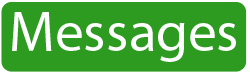
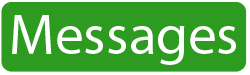
header done

Changed region(s): [[0.028, 0.16, 0.952, 0.88]]

diff --git a/app/assets/stylesheets/static_pages.css.scss b/app/assets/stylesheets/static_pages.css.scss
@@ -1,12 +1,66 @@
-/* Logged In Header */
+								/* Logged In Header */
 
 #logoutbutton {
+margin-left: 900px;
+position: relative;
+bottom: 20px;
+}
 
-	margin-left:300px;
+#search {
+	margin-left: 20px;
+	margin-top:9px;
+	float:left;
+}
+
+#searchfield {
+	float:left;
+}
+
+#searchbutton {
+    float:left;
+	left:5px;
+    top:6px;
+position: relative;
 }
 
 
+#meetumehead {
+font-size: 40px;
+margin-left:20px;
+color: #FFF;
+font-family: myriad pro;
+float:left;
+margin-top:6px;
+}
 
+#settings {
+	float:left;
+	left:20px;
+	top:12px;
+	position:relative;
+}
+
+#messages {
+	float:left;
+	left:24px;
+	top:12px;
+	position:relative;
+}
+
+#activity {
+float:left;
+left:28px;
+top:12px;
+position:relative;
+}
+
+#profile {
+left:32px;
+top:12px;
+position:relative;
+}
+
+									/* Everything Else */
 
 #heading {
 	background-color: #2374ee;
@@ -19,6 +73,7 @@
 	#meetume {
 	font-size: 40px;
 	margin-left:20px;
+	margin-top:6px;
 	color: #FFF;
 	font-family: myriad pro;
 }
